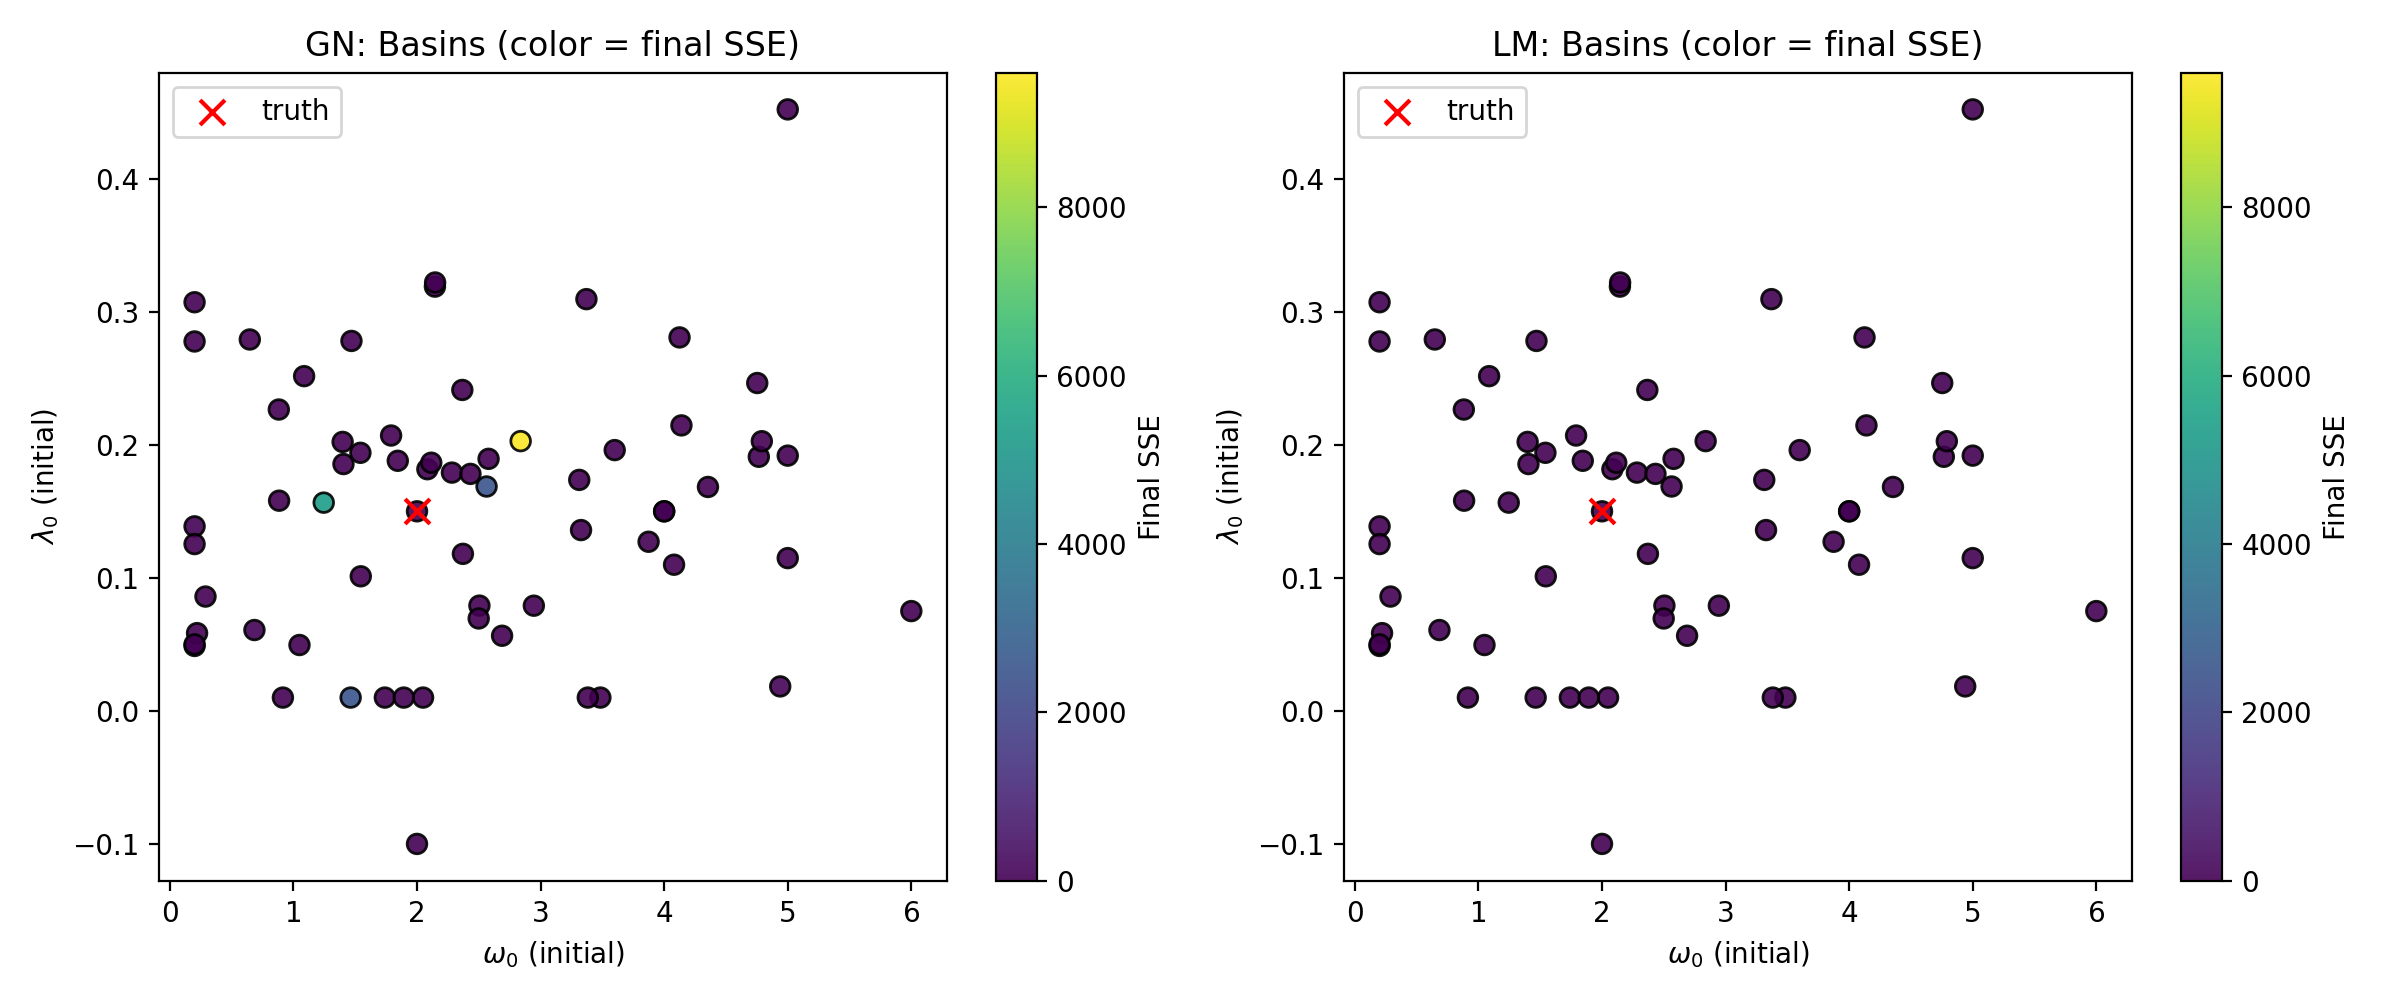
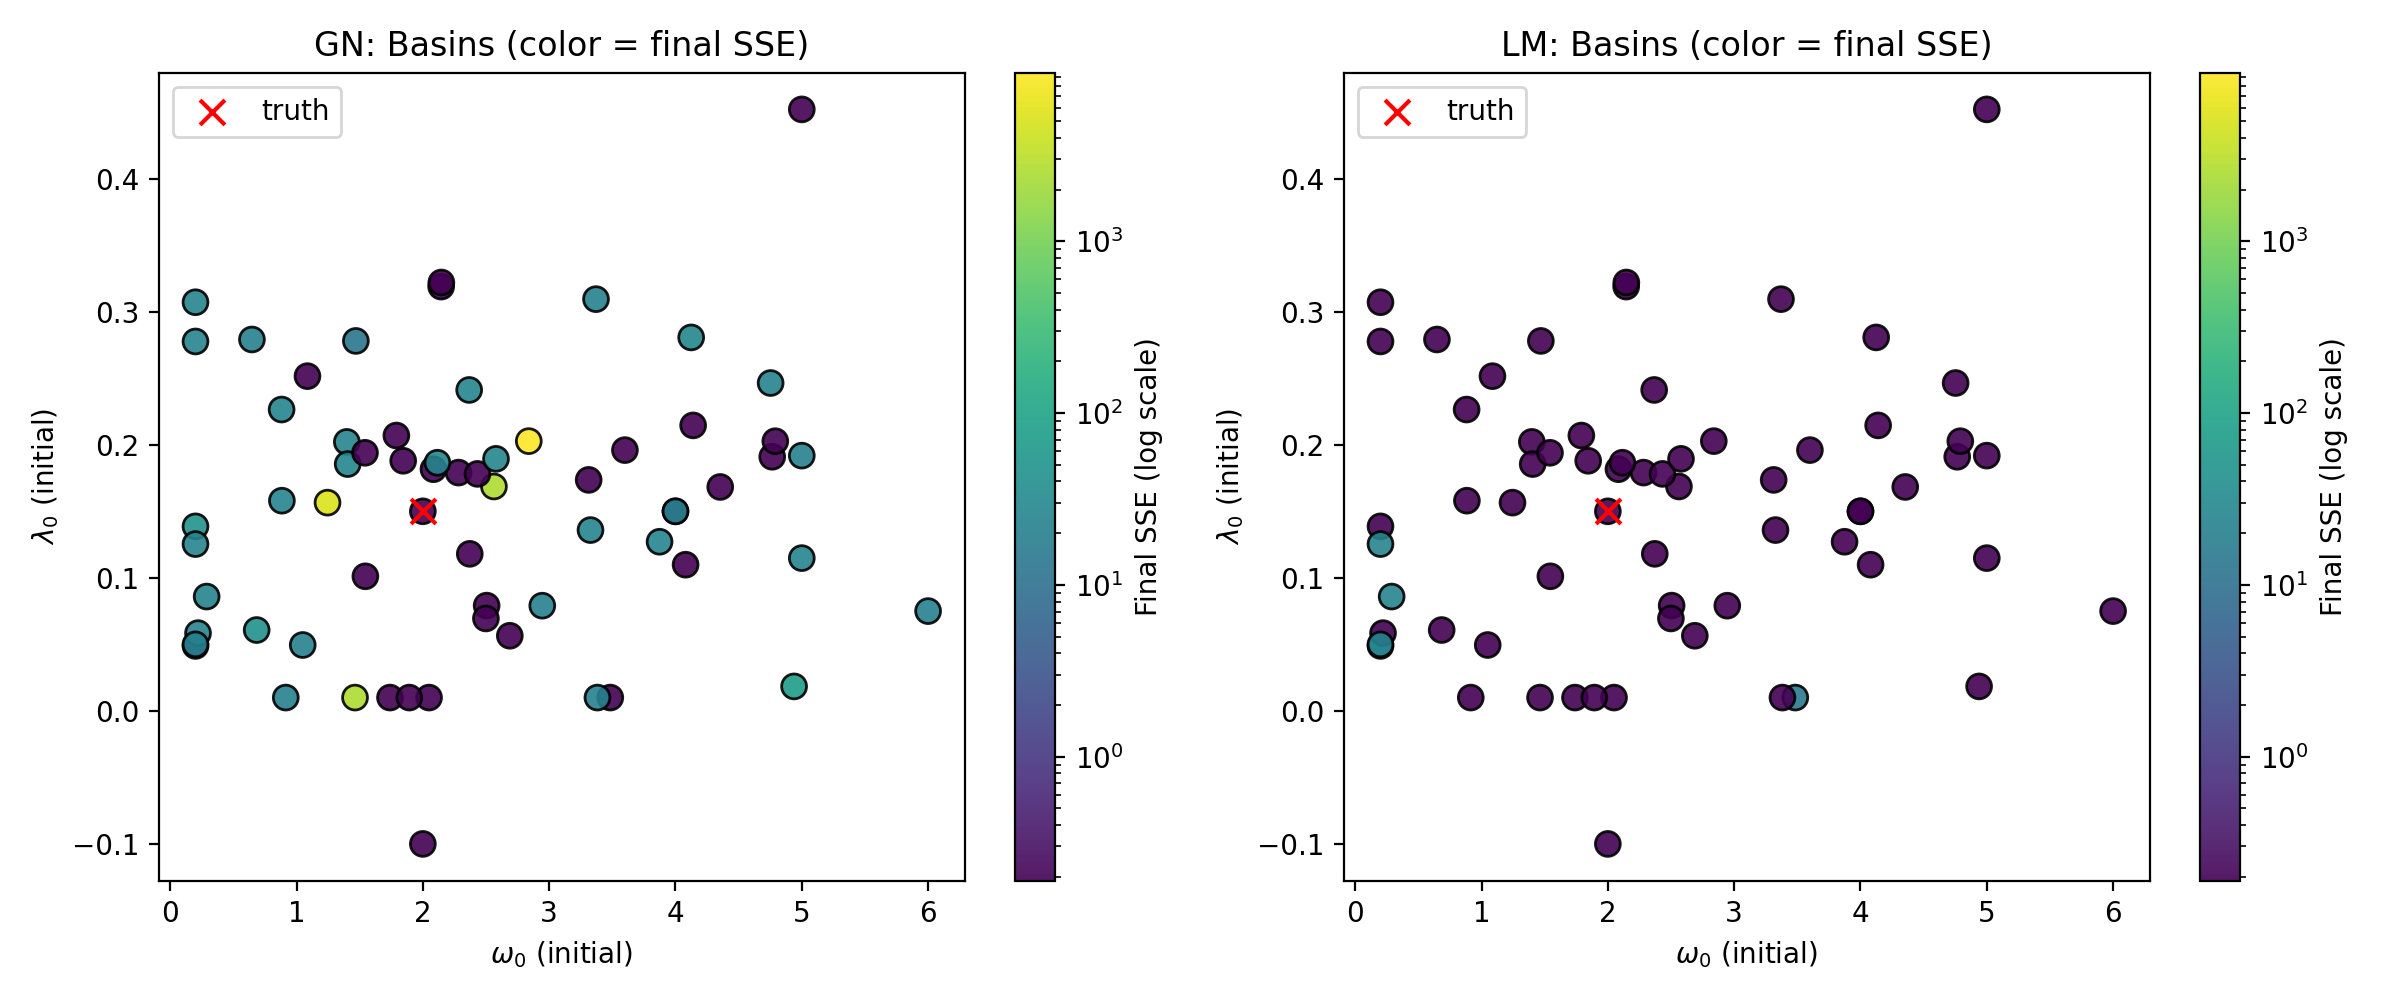
Update Figure 1.1

diff --git a/scripts/experiment_initialization.py b/scripts/experiment_initialization.py
@@ -10,7 +10,7 @@ import numpy as np
 import pandas as pd
 import matplotlib.pyplot as plt
 from gn_utils import GNConfig, gauss_newton, relative_error, damped_oscillation
-
+from matplotlib.colors import LogNorm
 
 def sample_initializations(beta_true: np.ndarray, n_samples: int, rng: np.random.Generator) -> np.ndarray:
     """Draw random initial guesses around the truth with controlled perturbations."""
@@ -71,6 +71,7 @@ def main() -> None:
     res_df = pd.DataFrame(results)
     Path("data").mkdir(exist_ok=True)
     res_df.to_csv("data/init_sensitivity_results.csv", index=False)
+    
 
     plots_dir = Path("plots")
     plots_dir.mkdir(exist_ok=True)
@@ -91,13 +92,18 @@ def main() -> None:
     plt.close()
 
     # Plot 2: Basins of attraction comparison
+    vmin = res_df[["gn_sse", "lm_sse"]].min().min()
     vmax = res_df[["gn_sse", "lm_sse"]].max().max()
+    # Ensure vmin is positive for log scale
+    vmin = max(vmin, 1e-10)
+    
     plt.figure(figsize=(12, 5))
     for idx, (method, col) in enumerate([("GN", "gn_sse"), ("LM", "lm_sse")], 1):
         plt.subplot(1, 2, idx)
         sc = plt.scatter(res_df["beta0_omega"], res_df["beta0_lambda"], c=res_df[col],
-                        cmap="viridis", s=50, alpha=0.9, edgecolors="k", vmin=0, vmax=vmax)
-        plt.colorbar(sc, label="Final SSE")
+                        cmap="viridis", s=80, alpha=0.9, edgecolors="k", 
+                        norm=LogNorm(vmin=vmin, vmax=vmax))
+        plt.colorbar(sc, label="Final SSE (log scale)")
         plt.scatter([beta_true[2]], [beta_true[1]], color="red", marker="x", s=80, label="truth")
         plt.xlabel(r"$\omega_0$ (initial)")
         plt.ylabel(r"$\lambda_0$ (initial)")
